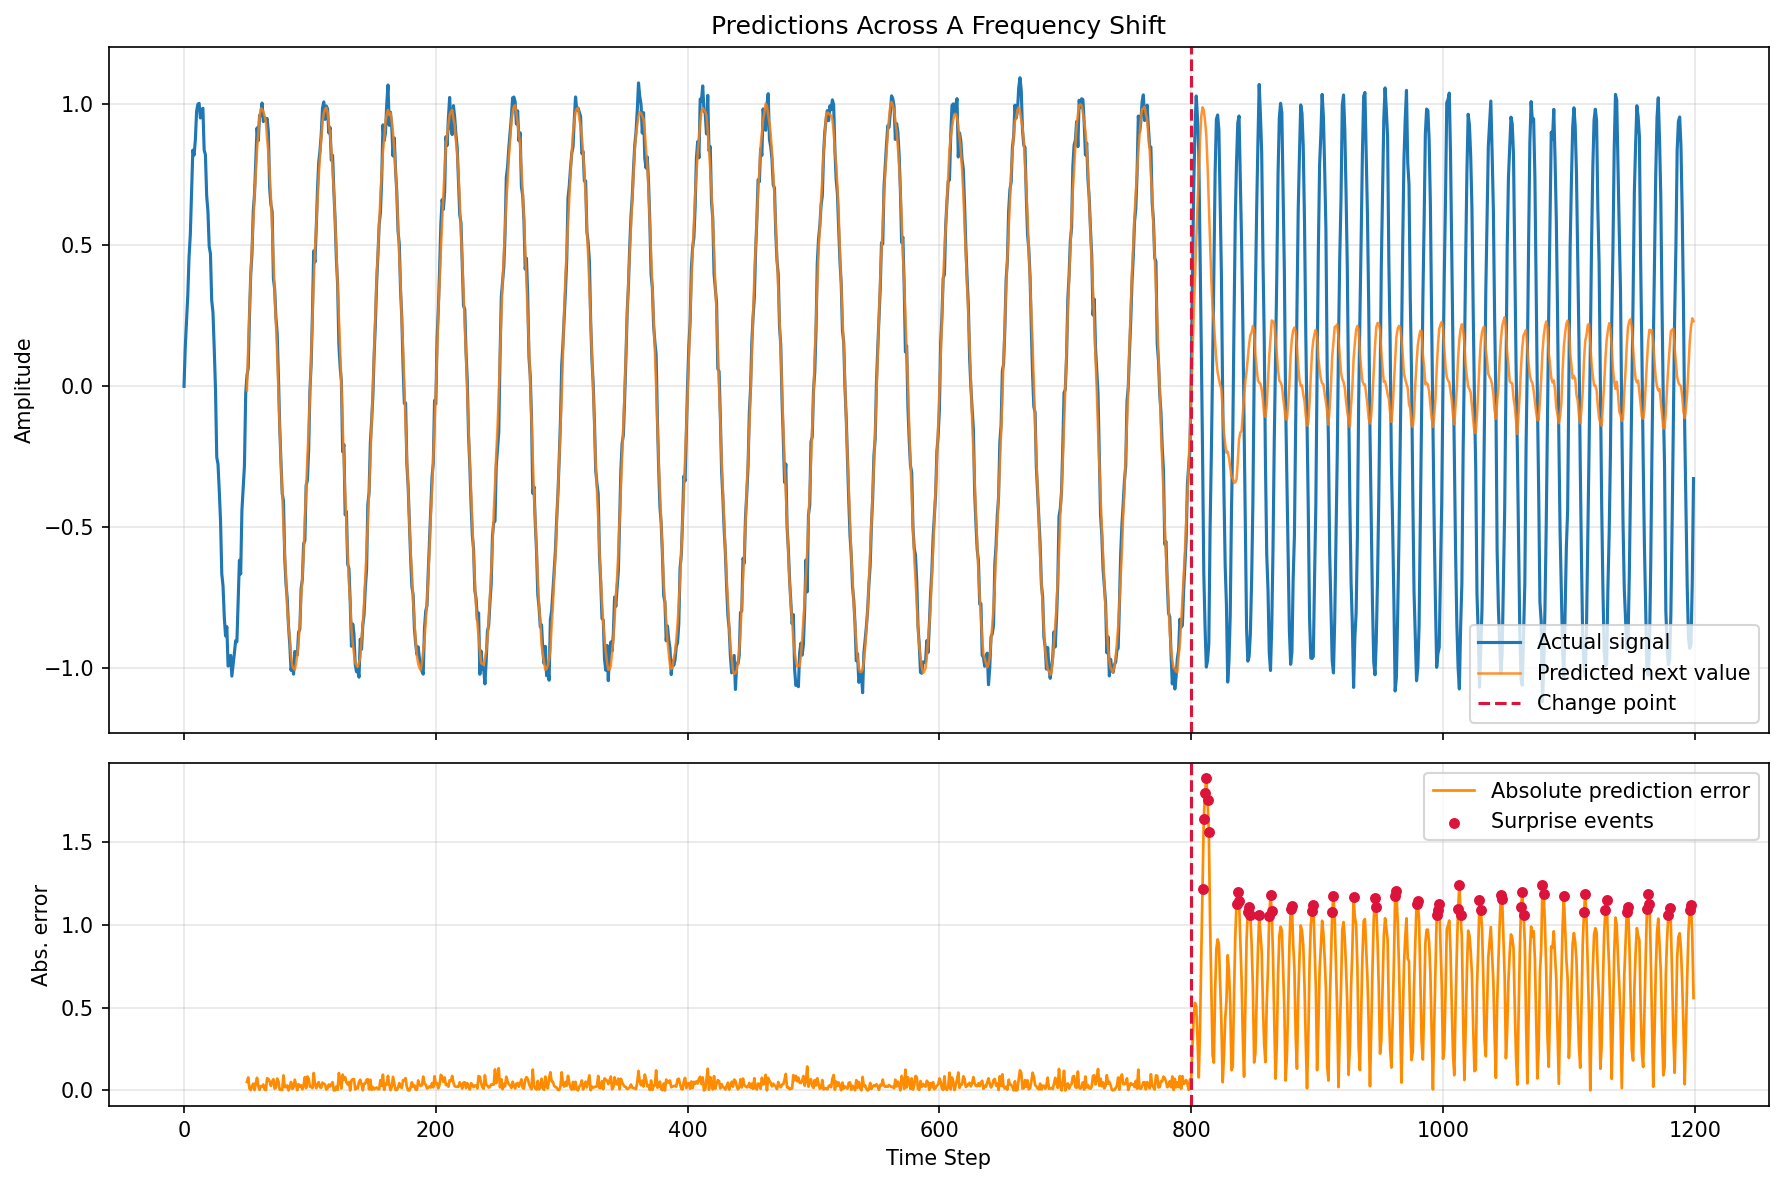
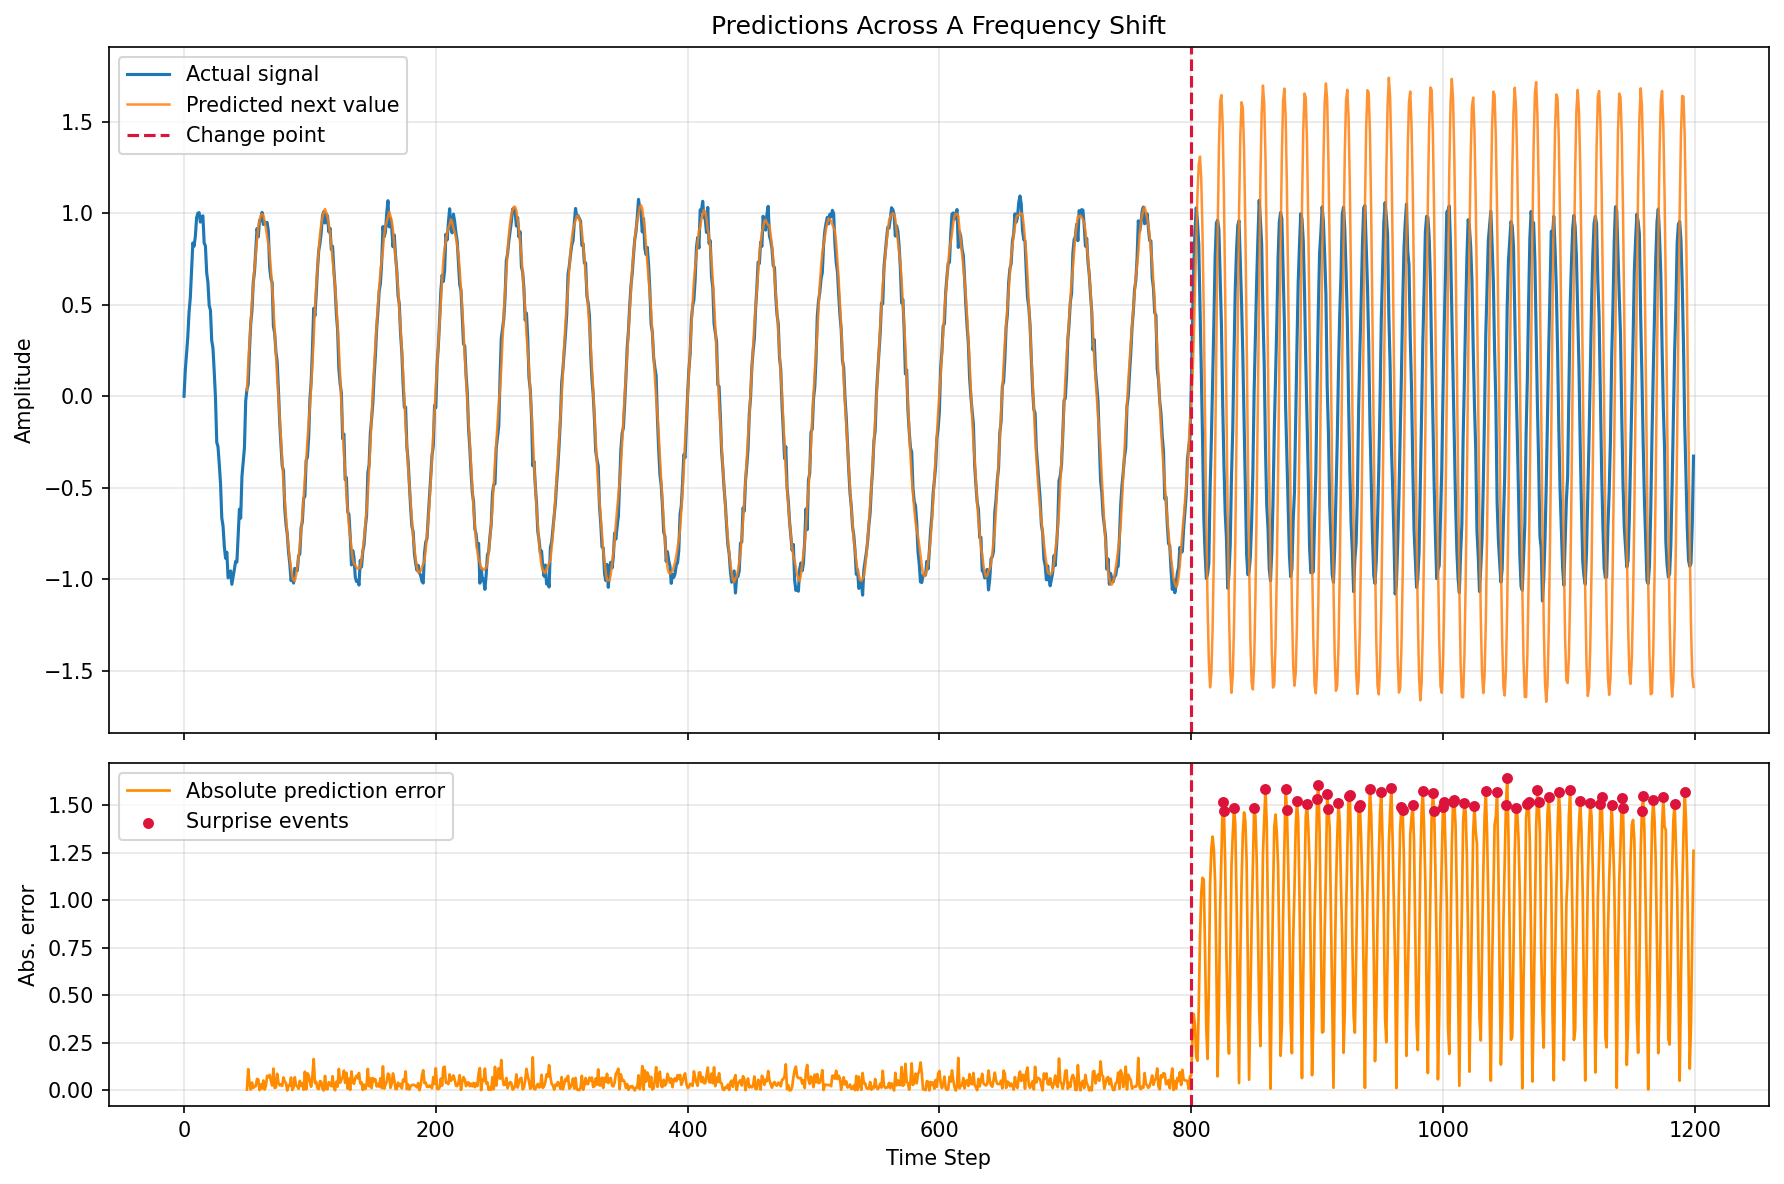
chore: clean caches and update demo artifacts

diff --git a/src/predictive_brain_lab/data.py b/src/predictive_brain_lab/data.py
@@ -21,7 +21,12 @@ def generate_sine_wave(
     phase: float = 0.0,
     seed: int | None = None,
 ) -> np.ndarray:
-    """Generate a noisy sine wave."""
+    """Generate a noisy sine wave.
+    This is basically a sine wave with some noise
+    The sine wave can be generated by the equation:
+    y = alpha * sin((2 * pi * f * t) + phi)
+    (2*pi*f) is also the angular frequency
+    """
 
     _validate_n_steps(n_steps)
     if sampling_rate <= 0:
@@ -58,11 +63,15 @@ def generate_frequency_shift_signal(
     signal = np.empty(n_steps, dtype=float)
 
     before_time = time[:change_point]
-    signal[:change_point] = amplitude * np.sin(2.0 * np.pi * frequency_before * before_time)
+    signal[:change_point] = amplitude * np.sin(
+        2.0 * np.pi * frequency_before * before_time
+    )
 
     after_time = time[change_point:] - time[change_point]
     phase_offset = 2.0 * np.pi * frequency_before * time[change_point]
-    signal[change_point:] = amplitude * np.sin(phase_offset + (2.0 * np.pi * frequency_after * after_time))
+    signal[change_point:] = amplitude * np.sin(
+        phase_offset + (2.0 * np.pi * frequency_after * after_time)
+    )
 
     noise = rng.normal(loc=0.0, scale=noise_std, size=n_steps)
     signal = signal + noise

diff --git a/scripts/run_surprise_demo.py b/scripts/run_surprise_demo.py
@@ -329,7 +329,14 @@ def main() -> None:
     val_loader = DataLoader(val_dataset, batch_size=args.batch_size, shuffle=False)
     full_loader = DataLoader(dataset, batch_size=args.batch_size, shuffle=False)
 
-    device = torch.device("cuda" if torch.cuda.is_available() else "cpu")
+    # Use MPS or CUDA if available, otherwise use CPU
+    if torch.cuda.is_available():
+        device = torch.device("cuda")
+    elif torch.backends.mps.is_available():
+        device = torch.device("mps")
+    else:
+        device = torch.device("cpu")
+
     output_path = args.output_path
 
     if args.compare: